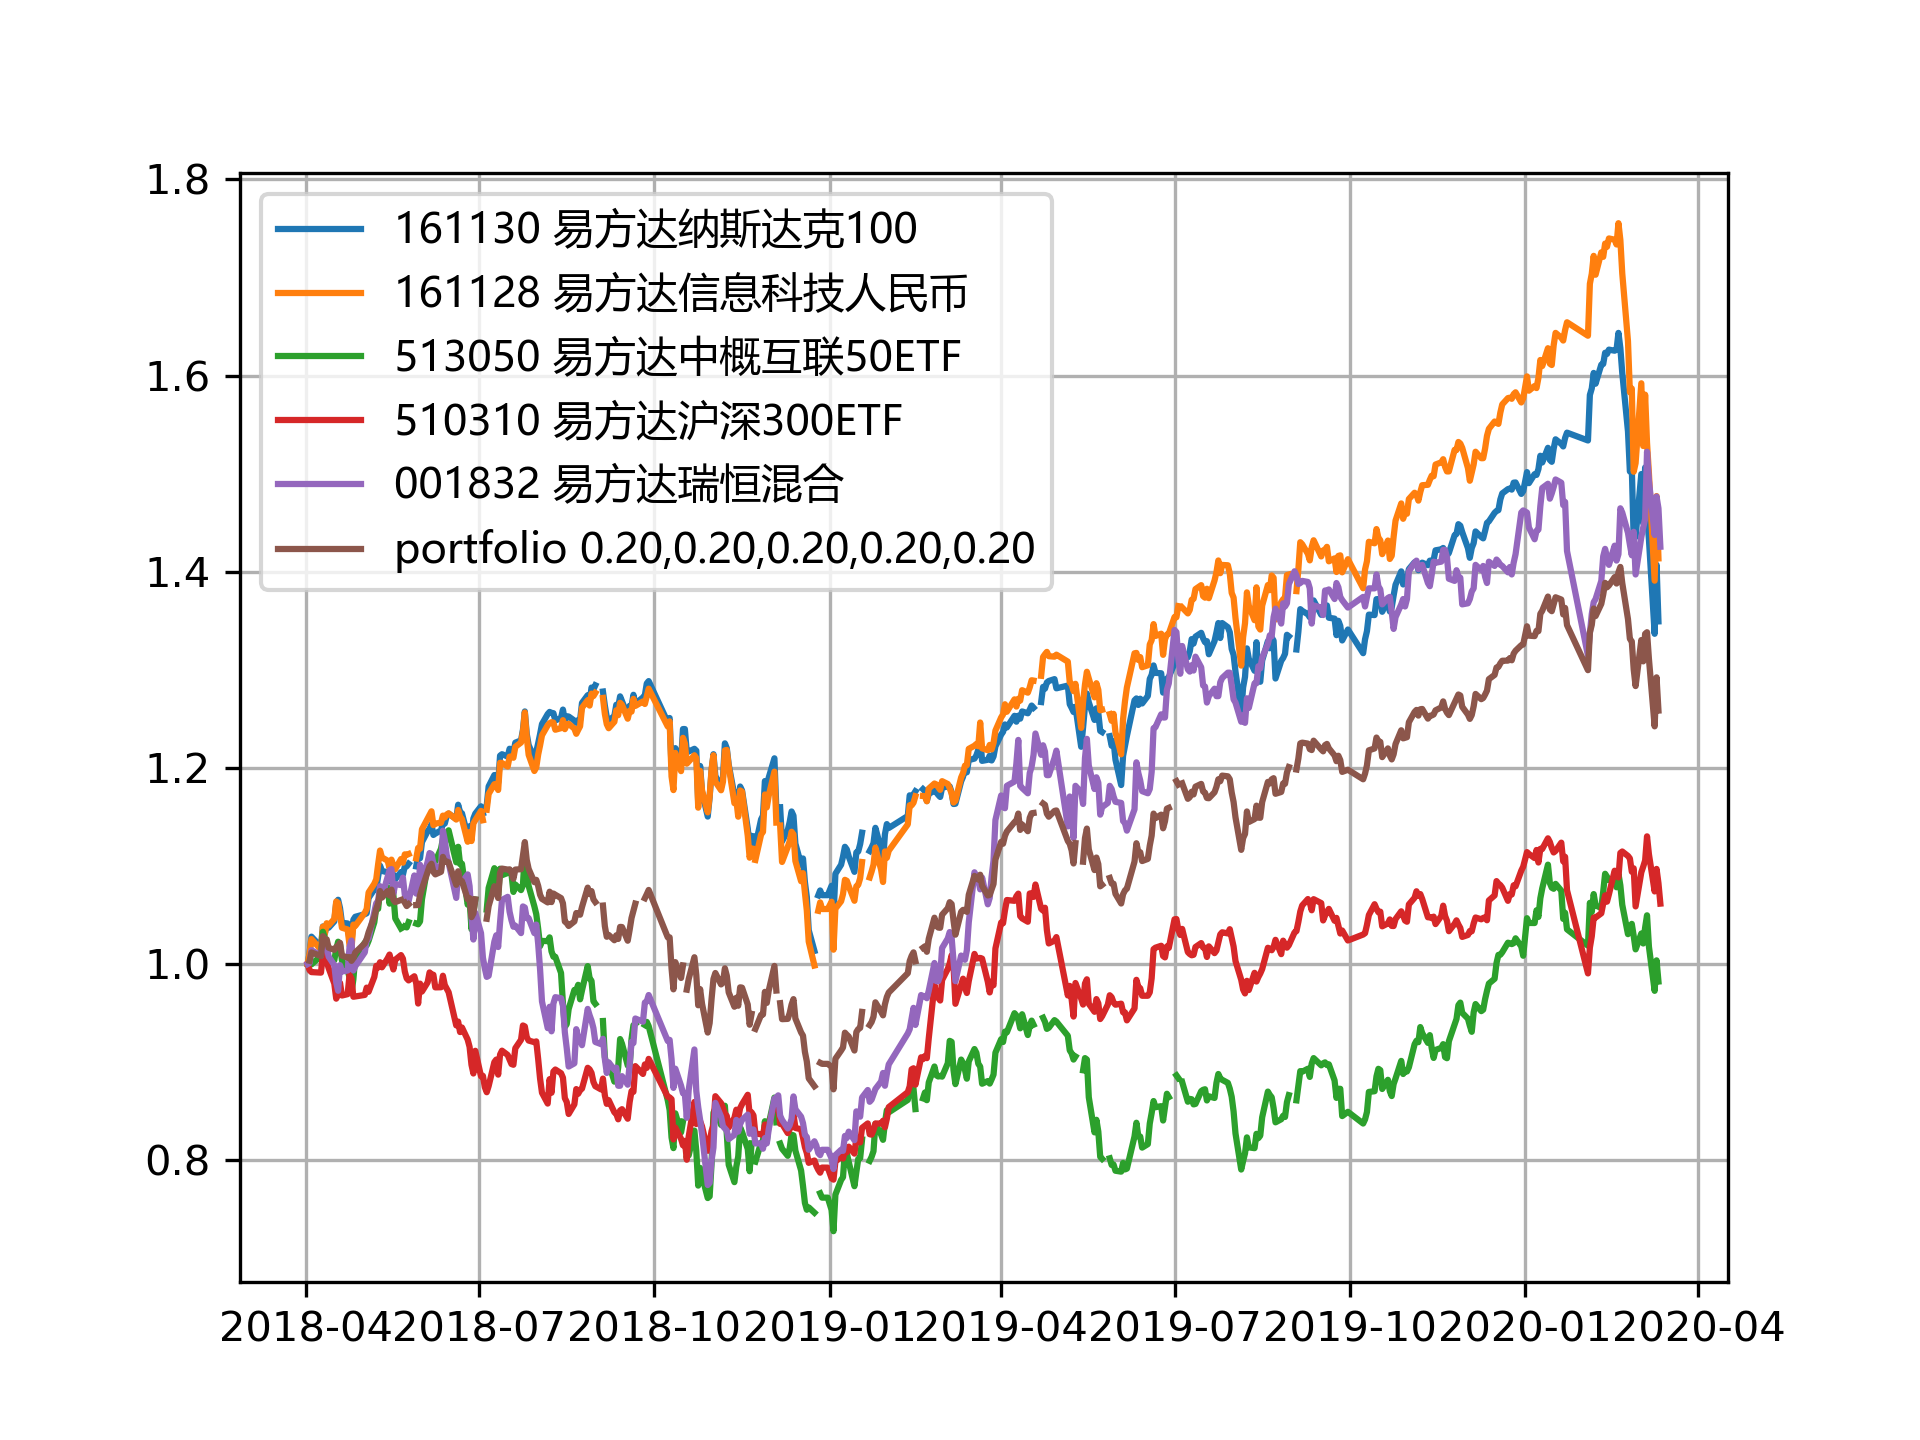
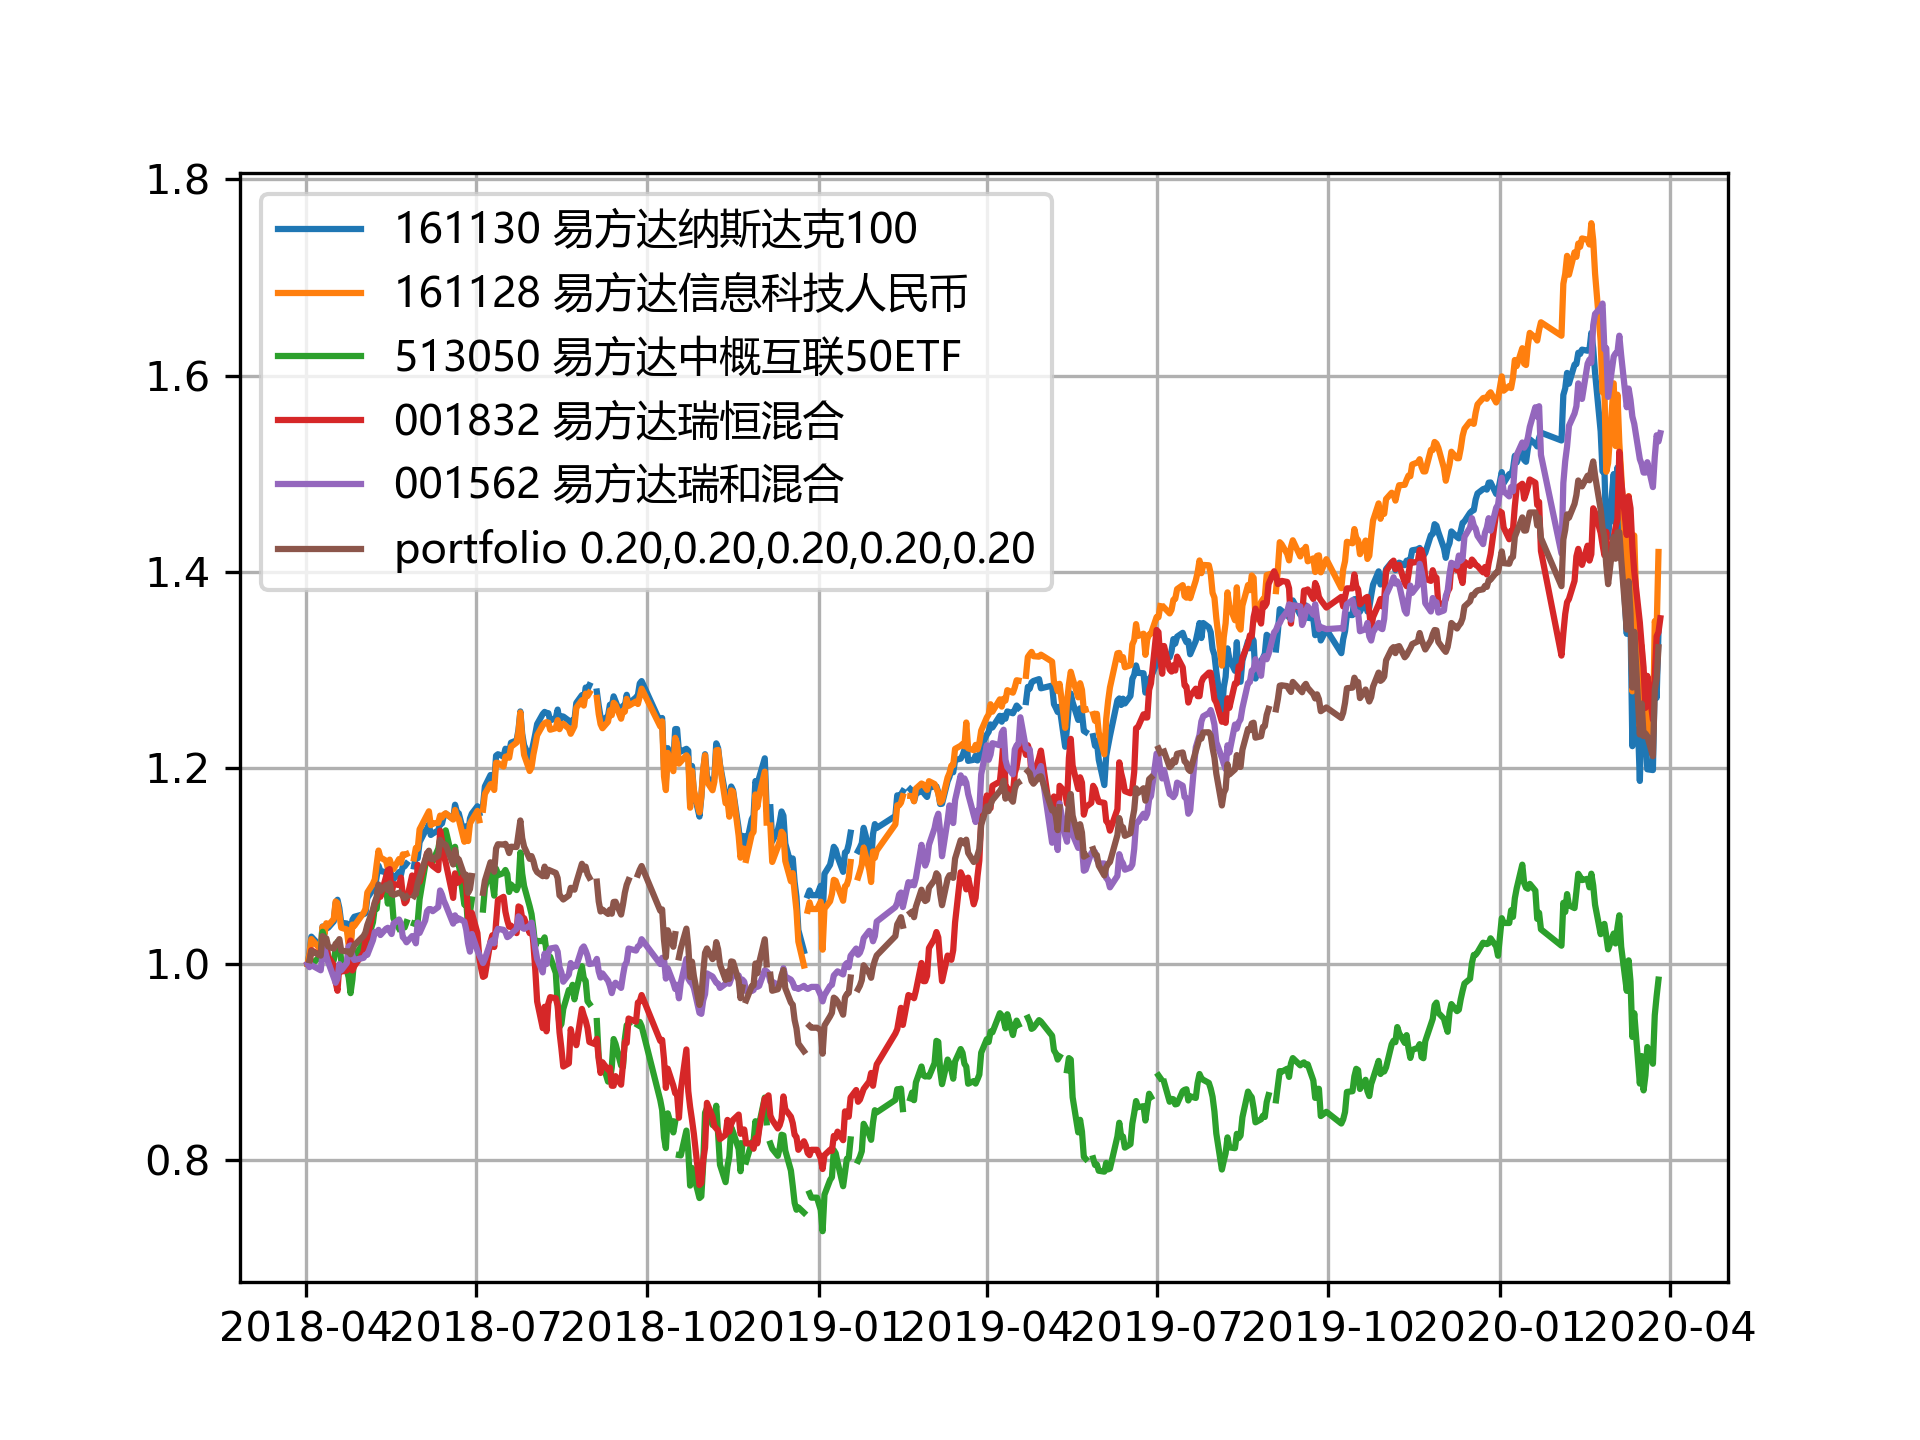
adjust portfolio

diff --git a/funddata.py b/funddata.py
@@ -19,7 +19,7 @@ if __name__ == "__main__":
 
     startdate = '2018-04-01'
     enddate = '2021-04-01'
-    codelist = ['161130', '161128', '513050', '510310', '001832']
+    codelist = ['161130', '161128', '513050', '001832', '001562']#, '510310']
 
     # 0 for unit net value; 1 for accumulated net value
     value_field_index = 1

diff --git a/README.md b/README.md
@@ -5,7 +5,7 @@ The code was written in and tested with Python 3.7 (Anaconda 4.8).
 ## Usage
 #### Run the program with command line arguments of start date, end date and a list of fund codes
 #### Example:
-python funddata.py 2018-04-01 2021-04-01 161130 161128 513050 510310 001832
+python funddata.py 2018-04-01 2021-04-01 161130 161128 513050 001832 001562
 
 ## A plot of accumulated net values (fld_netvalue) for the example
 ![Screenshot](fld_netvalue.png)
